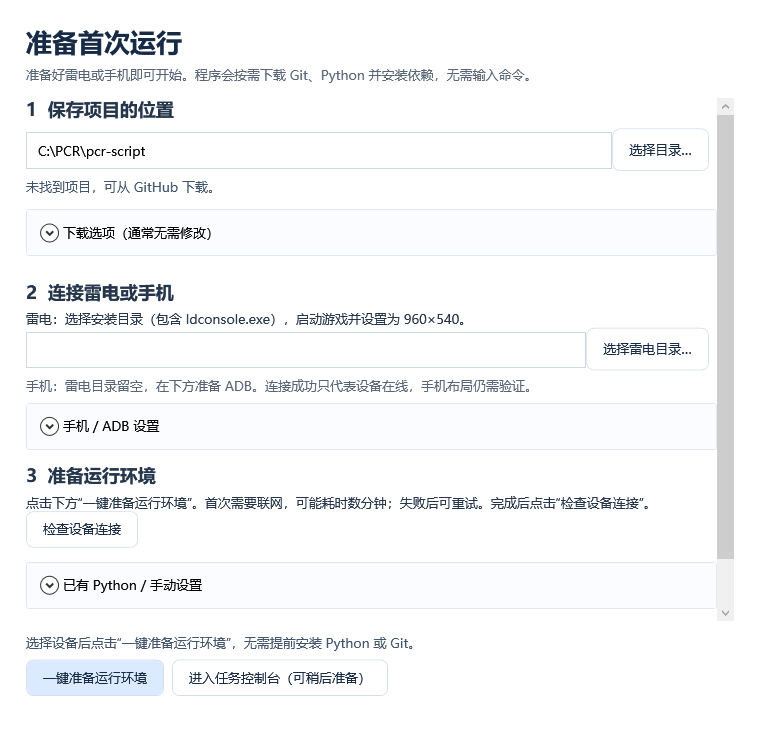
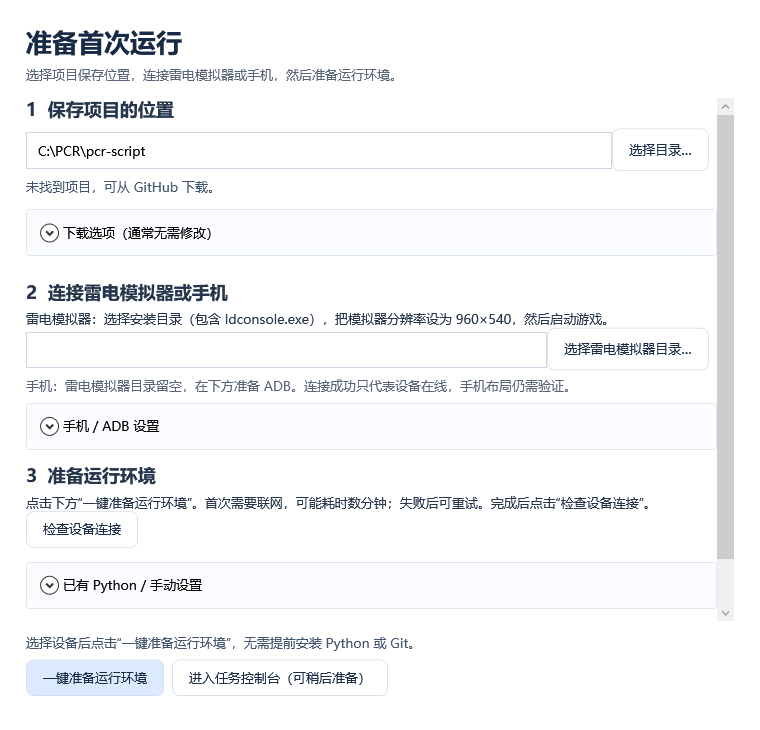
docs: use full Chinese name for LDPlayer throughout user guidance

Changed region(s): [[0.0605, 0.3918, 0.8776, 0.5123], [0.0303, 0.0904, 0.6961, 0.1205], [0.1211, 0.5123, 0.7566, 0.5425]]

diff --git a/desktop/PcrDesktop/SetupWindow.xaml b/desktop/PcrDesktop/SetupWindow.xaml
@@ -3,7 +3,7 @@
   <Grid Margin="26">
     <Grid.RowDefinitions><RowDefinition Height="Auto"/><RowDefinition Height="*"/><RowDefinition Height="Auto"/></Grid.RowDefinitions>
     <StackPanel Margin="0,0,0,14"><TextBlock Text="准备首次运行" FontSize="26" FontWeight="SemiBold" Foreground="#172B46"/>
-      <TextBlock Text="准备好雷电或手机即可开始。程序会按需下载 Git、Python 并安装依赖，无需输入命令。" TextWrapping="Wrap" Margin="0,8,0,0" Foreground="#586578"/></StackPanel>
+      <TextBlock Text="选择项目保存位置，连接雷电模拟器或手机，然后准备运行环境。" TextWrapping="Wrap" Margin="0,8,0,0" Foreground="#586578"/></StackPanel>
     <ScrollViewer x:Name="SetupFields" Grid.Row="1" VerticalScrollBarVisibility="Auto"><StackPanel>
       <TextBlock Text="1  保存项目的位置" FontSize="18" FontWeight="SemiBold"/>
       <DockPanel Margin="0,8,0,0"><Button DockPanel.Dock="Right" Content="选择目录…" Click="ProjectBrowse_Click"/><TextBox x:Name="ProjectPath" TextChanged="Project_Changed"/></DockPanel>
@@ -18,10 +18,10 @@
           <DockPanel><Button DockPanel.Dock="Right" x:Name="DownloadButton" Content="仅下载项目" Click="Download_Click"/><TextBox x:Name="Branch" ToolTip="分支"/></DockPanel>
         </StackPanel></Expander>
       </StackPanel>
-      <TextBlock Text="2  连接雷电或手机" FontSize="18" FontWeight="SemiBold" Margin="0,14,0,0"/>
-      <TextBlock Text="雷电：选择安装目录（包含 ldconsole.exe），启动游戏并设置为 960×540。" TextWrapping="Wrap" Margin="0,8,0,0"/>
-      <DockPanel><Button DockPanel.Dock="Right" Content="选择雷电目录…" Click="EmulatorBrowse_Click"/><TextBox x:Name="EmulatorPath"/></DockPanel>
-      <TextBlock Text="手机：雷电目录留空，在下方准备 ADB。连接成功只代表设备在线，手机布局仍需验证。" TextWrapping="Wrap" Foreground="#586578"/>
+      <TextBlock Text="2  连接雷电模拟器或手机" FontSize="18" FontWeight="SemiBold" Margin="0,14,0,0"/>
+      <TextBlock Text="雷电模拟器：选择安装目录（包含 ldconsole.exe），把模拟器分辨率设为 960×540，然后启动游戏。" TextWrapping="Wrap" Margin="0,8,0,0"/>
+      <DockPanel><Button DockPanel.Dock="Right" Content="选择雷电模拟器目录…" Click="EmulatorBrowse_Click"/><TextBox x:Name="EmulatorPath"/></DockPanel>
+      <TextBlock Text="手机：雷电模拟器目录留空，在下方准备 ADB。连接成功只代表设备在线，手机布局仍需验证。" TextWrapping="Wrap" Foreground="#586578"/>
       <Expander Header="手机 / ADB 设置" Margin="0,8,0,0"><StackPanel>
         <TextBlock Text="开启手机的开发者选项和 USB 调试，用数据线连接并允许此电脑调试。" TextWrapping="Wrap"/>
         <DockPanel><Button DockPanel.Dock="Right" Content="选择 adb.exe…" Click="AdbBrowse_Click"/><TextBox x:Name="AdbPath" ToolTip="已有 ADB 可填写完整路径或 adb（PATH）"/></DockPanel>

diff --git a/pcrscript/desktop.py b/pcrscript/desktop.py
@@ -125,12 +125,12 @@ def device_report(options: dict[str, Any]) -> dict[str, Any]:
     emulator = str(options.get('dnpath') or '').strip()
     if emulator:
         if not (Path(emulator) / 'ldconsole.exe').is_file():
-            raise ValueError('此目录没有 ldconsole.exe，请选择雷电安装目录，而非桌面快捷方式。')
+            raise ValueError('此目录没有 ldconsole.exe，请选择雷电模拟器安装目录，而非桌面快捷方式。')
         diagnostics = io.StringIO()
         with redirect_stdout(diagnostics):
             devices = DNSimulator(emulator, useADB=False).get_devices() or []
-        message = ('雷电连接正常，在线实例：' + '、'.join(devices) + '。请登录游戏首页，并确认分辨率为 960×540。') if devices else (
-            '未发现已启动的雷电实例，请先启动模拟器，等待 Android 桌面显示后重试。' + diagnostics.getvalue().strip())
+        message = ('雷电模拟器连接正常，在线实例：' + '、'.join(devices) + '。请登录游戏首页，并确认分辨率为 960×540。') if devices else (
+            '未发现已启动的雷电模拟器实例，请先启动模拟器，等待 Android 桌面显示后重试。' + diagnostics.getvalue().strip())
         return dict(protocol=PROTOCOL, ready=bool(devices), devices=[], message=message)
     states = GeneralSimulator(str(options.get('adb_path') or 'adb')).get_device_states()
     devices = [serial for serial, state in states.items() if state == 'device']
@@ -379,7 +379,7 @@ def execute(path: Path, request: dict[str, Any], run_id: str) -> None:
             dnpath = str(config['Extra'].get('dnpath') or '').strip()
             if dnpath:
                 if open_leidian_emulator(dnpath) != 0:
-                    raise RuntimeError('雷电启动失败')
+                    raise RuntimeError('雷电模拟器启动失败')
             else:
                 import subprocess
                 from pcrscript.run_session import clock

diff --git a/pcrscript/runtime.py b/pcrscript/runtime.py
@@ -32,7 +32,7 @@ def select_driver(config: dict[str, Any]) -> Driver:
     if dnpath:
         drivers = DNSimulator(dnpath, useADB=False).get_dirvers() or []
         if not drivers:
-            raise RuntimeError("未发现雷电窗口，请在与模拟器相同的 Windows 会话运行")
+            raise RuntimeError("未发现雷电模拟器窗口，请在与模拟器相同的 Windows 会话运行")
         return drivers[0]
     adb_path = str(extra.get("adb_path") or "adb").strip()
     unicode_console_path = str(extra.get("adb_unicode_console_path") or "").strip()
@@ -117,13 +117,13 @@ def open_leidian_emulator(dnpath: str) -> int:
             last_error = error
             detail = (f'退出码 0x{error.returncode & 0xffffffff:08X}'
                       if isinstance(error, subprocess.CalledProcessError) else '查询超过 15 秒')
-            print(f'雷电设备查询 list2 失败（{detail}），启动检查 {attempt + 1}/10', flush=True)
+            print(f'雷电模拟器设备查询 list2 失败（{detail}），启动检查 {attempt + 1}/10', flush=True)
         if attempt < 9:
             print("no emulator detected, wait for 20 seconds")
             time.sleep(20)
     else:
         if last_error is not None:
-            raise RuntimeError(f'雷电启动检查已达 10 次上限，最后一次设备查询失败（{detail}）') from last_error
+            raise RuntimeError(f'雷电模拟器启动检查已达 10 次上限，最后一次设备查询失败（{detail}）') from last_error
         print("exit cannot found device")
         return -1
     print("try start princess connect application")

diff --git a/desktop/PcrDesktop/MainWindow.Options.cs b/desktop/PcrDesktop/MainWindow.Options.cs
@@ -22,7 +22,7 @@ public partial class MainWindow
         ["max_characters"] = "本轮最多检查角色数", ["max_pages"] = "角色列表最大翻页数", ["max_story_steps_per_character"] = "单角色剧情步骤上限", ["max_gifts_per_character"] = "单角色礼物消耗上限",
         ["aliases"] = "搜索别名", ["region"] = "目标服区", ["max_videos"] = "候选视频数量", ["max_age_hours"] = "缓存有效小时数",
         ["request_timeout"] = "网络请求超时（秒）", ["cache_dir"] = "来源缓存目录", ["Extra"] = "运行环境", ["StoryEvent"] = "剧情活动", ["RevivalEvent"] = "复刻活动",
-        ["Gift"] = "礼物领取", ["Caravan"] = "驾车游", ["dnpath"] = "雷电安装目录", ["adb_path"] = "ADB 程序", ["adb_serial"] = "ADB 设备序列号（多个设备时填写）",
+        ["Gift"] = "礼物领取", ["Caravan"] = "驾车游", ["dnpath"] = "雷电模拟器安装目录", ["adb_path"] = "ADB 程序", ["adb_serial"] = "ADB 设备序列号（多个设备时填写）",
         ["teams"] = "队伍方案文件", ["first_clear"] = "推进首次通关（待实机验证）", ["bosses"] = "挑战首领",
         ["stories"] = "处理剧情", ["memoirs"] = "处理追忆", ["missions"] = "领取任务奖励", ["exchange"] = "兑换奖励",
         ["max_boss_attempts"] = "首领最大尝试次数", ["battle_timeout"] = "战斗超时（秒）", ["timeout"] = "任务超时（秒）",

diff --git a/pcrscript/driver.py b/pcrscript/driver.py
@@ -235,13 +235,13 @@ class DNDriver(Win32Driver):
         self._init_window_info()
 
     def _cmd(self, cmd, ret=False):
-        # 雷电窗口模式不得在截图/点击失败后偷偷切换到 ADB。
+        # 雷电模拟器窗口模式不得在截图/点击失败后偷偷切换到 ADB。
         self._assert_adb_allowed()
         return super()._cmd(cmd, ret)
 
     def _assert_adb_allowed(self):
         if self.click_by_mouse:
-            raise RuntimeError("雷电窗口操作失败（已禁用 ADB 回退），请检查模拟器窗口是否存在")
+            raise RuntimeError("雷电模拟器窗口操作失败（已禁用 ADB 回退），请检查模拟器窗口是否存在")
     
 
     def _init_window_info(self):

diff --git a/desktop/PcrDesktop/MainWindow.xaml.cs b/desktop/PcrDesktop/MainWindow.xaml.cs
@@ -66,7 +66,7 @@ public partial class MainWindow : Window
     private void Message(string text) => MessageText.Text = text;
     private static string DeviceLabel(Settings settings) => string.IsNullOrWhiteSpace(settings.EmulatorDirectory)
         ? "设备连接：ADB" + (string.IsNullOrWhiteSpace(settings.AdbSerial) ? "（自动选择唯一设备）" : " · " + settings.AdbSerial)
-        : "雷电目录：" + settings.EmulatorDirectory;
+        : "雷电模拟器目录：" + settings.EmulatorDirectory;
     private void Log(string text) => Dispatcher.Invoke(() =>
     {
         // Bound UI memory while the complete log remains in the run directory.

diff --git a/desktop/PcrDesktop/MainWindow.Profiles.cs b/desktop/PcrDesktop/MainWindow.Profiles.cs
@@ -114,7 +114,7 @@ public partial class MainWindow
         ResetDailyEditor();
         MarkConfigSaved();
         ConfigPicker.SelectedIndex = -1;
-        Message("运行选项已就绪；设置雷电目录或连接 ADB 设备后可运行单任务，整组方案可另行保存");
+        Message("运行选项已就绪；设置雷电模拟器目录或连接 ADB 设备后可运行单任务，整组方案可另行保存");
     }
 
     private async void Setup_Click(object sender, RoutedEventArgs e) => await Guard(async () =>

diff --git a/desktop/PcrDesktop/SetupWindow.xaml.cs b/desktop/PcrDesktop/SetupWindow.xaml.cs
@@ -86,7 +86,7 @@ public partial class SetupWindow : Window
 
     private void EmulatorBrowse_Click(object sender, RoutedEventArgs e)
     {
-        var dialog = new OpenFolderDialog { Title = "选择包含 ldconsole.exe 的雷电安装目录" };
+        var dialog = new OpenFolderDialog { Title = "选择包含 ldconsole.exe 的雷电模拟器安装目录" };
         if (dialog.ShowDialog(this) == true) EmulatorPath.Text = dialog.FolderName;
     }
 

diff --git a/docs/game-knowledge/navigation.md b/docs/game-knowledge/navigation.md
@@ -1,6 +1,6 @@
 # 界面地图
 
-适用：国服雷电 960×540；2026-09 实测。入口名称、活动布局可能变动。
+适用：国服雷电模拟器 960×540；2026-09 实测。入口名称、活动布局可能变动。
 
 | 起点 | 路径 | 识别要点 |
 |---|---|---|
@@ -17,10 +17,10 @@
 
 易混淆：冒险菜单的“主线关卡”卡片与主线地图标题同名。弹窗、教程、剧情和数据连接遮罩可覆盖当前页面；待覆盖层消失后判断所在页。
 
-**国服实测（2026-09-27，雷电 960×540）**：启动游戏时可能先显示无文字的加载画面，再出现带「点击屏幕 开始游戏」的标题页。标题页左下角「主菜单」与游戏首页底部导航不同；点击画面空白处可继续登录，登录奖励与公告结束后才进入首页。
+**国服实测（2026-09-27，雷电模拟器 960×540）**：启动游戏时可能先显示无文字的加载画面，再出现带「点击屏幕 开始游戏」的标题页。标题页左下角「主菜单」与游戏首页底部导航不同；点击画面空白处可继续登录，登录奖励与公告结束后才进入首页。
 
-**国服实测（2026-09-25，雷电 960×540）**：当日首次启动游戏后曾出现登录奖励看板，画面有「欢迎回来」和「Goal!」，右上角是跳过图标。点跳过后可继续进入首页及冒险菜单；此页不属于深域地图。
+**国服实测（2026-09-25，雷电模拟器 960×540）**：当日首次启动游戏后曾出现登录奖励看板，画面有「欢迎回来」和「Goal!」，右上角是跳过图标。点跳过后可继续进入首页及冒险菜单；此页不属于深域地图。
 
-**国服实测（2026-09-26，雷电 960×540）**：进入游戏时还会看到「应援印章」登录看板，右上角有双箭头跳过图标。看板可能遮住首页入口；应确认看板标题及跳过图标后再跳过。
+**国服实测（2026-09-26，雷电模拟器 960×540）**：进入游戏时还会看到「应援印章」登录看板，右上角有双箭头跳过图标。看板可能遮住首页入口；应确认看板标题及跳过图标后再跳过。
 
-**国服实测（2026-09-24，雷电 960×540）**：主线关卡快捷扫荡选中剩余挑战次数为 0 的关卡时，会弹出「一键回复挑战次数」。点「不回复，进行下一步」可跳过宝石回复，随后进入扫荡确认；若使用券张数超过部分关卡剩余挑战次数，最终确认页提示无法扫荡。调低使用券张数后，可正常显示扫荡结果。
+**国服实测（2026-09-24，雷电模拟器 960×540）**：主线关卡快捷扫荡选中剩余挑战次数为 0 的关卡时，会弹出「一键回复挑战次数」。点「不回复，进行下一步」可跳过宝石回复，随后进入扫荡确认；若使用券张数超过部分关卡剩余挑战次数，最终确认页提示无法扫荡。调低使用券张数后，可正常显示扫荡结果。

diff --git a/docs/pending-validation.md b/docs/pending-validation.md
@@ -7,7 +7,7 @@
 | GUI 首次安装与引导 | 在未装 Git/Python/ADB、无工具和 pip 缓存的干净 Windows，从新 Release ZIP 完成核心下载、便携工具下载、虚拟环境与依赖准备；验证网络中断/重试、权限/磁盘失败、手机授权及多设备选择。核对新工程默认日常、配置保存和实际运行结果。隔离目录安装验证不替代干净系统验收。见[发布](releases.md)。 |
 | GUI 运行控制与进度 | 真实日常及单项 OCR 任务中验证暂停确认、恢复、停止、锁释放、结束后耗时固定；任务切换清除旧阶段，未知总数显示活动条，“保存现场”能定位回执。见[运行诊断](run-diagnostics.md)。 |
 | Windows 状态文件更新 | 自然发生 `status.json` 替换冲突（WinError 5/32）时，有限重试后状态与控制回执仍正确；定位实际占用来源。 |
-| 雷电冷启动 | `list2` 自然异常退出或超时时，原有启动循环能恢复或在上限内停止；首次登录的应援印章等看板组合应能进入首页并继续日常。 |
+| 雷电模拟器冷启动 | `list2` 自然异常退出或超时时，原有启动循环能恢复或在上限内停止；首次登录的应援印章等看板组合应能进入首页并继续日常。 |
 | ADB 与其他布局 | 纯 ADB 中文输入、无控制台时的完整五人头像扫描及非 960×540 布局。设备配置见[设备设置](guides/desktop.md)。 |
 | 深域体力不足 | 由生产任务自然触发公会之家领取，核对取消回复、体力回执、余额增加及原关详情重读；无产物和其他弹窗也应有界停止。 |
 | 来源解析与完整配队 | 空缓存搜索、头像准备、不同视频布局、培养/服区/SET/AUTO/全局条件的完整核验及拒识；核验短暂战斗字幕是否会落在整帧复核间隔外；活动/复刻旧头像索引的自动补全。见[解析边界](video-strategies.md)。 |

diff --git a/README.md b/README.md
@@ -11,8 +11,8 @@
 
 需要 Windows 电脑，以及雷电模拟器或 Android 手机。图形界面要求 Windows 10（1903 或更新版本）/ Windows 11。
 
-- **雷电：** 把分辨率设为 **960×540**，启动游戏并登录到首页。
-- **手机：** 开启“开发者选项”和“USB 调试”，用数据线连接电脑，在手机上允许调试。目前只在雷电上测试过，手机上可能出现识别或点击不准的情况。
+- **雷电模拟器：** 把分辨率设为 **960×540**，启动游戏并登录到首页。
+- **手机：** 开启“开发者选项”和“USB 调试”，用数据线连接电脑，在手机上允许调试。目前只在雷电模拟器上测试过，手机上可能出现识别或点击不准的情况。
 
 日程表和竞技场会使用你在游戏里保存的安排和队伍。快捷扫荡默认用预设 2；只有困难关卡掉落加倍时可能改用预设 3，运行前请检查这两个预设的内容。扫荡、调查和商店购买会消耗体力或对应货币，不需要的任务可以从执行列表中去掉。具体说明见 [任务列表](docs/guides/tasks.md)。
 
@@ -31,7 +31,7 @@ notepad daily_config.yml
 
 在打开的配置文件里：
 
-- 使用雷电时，把 `Extra` 下的 `dnpath` 改成自己的雷电安装目录，例如 `'D:/leidian/LDPlayer9'`。
+- 使用雷电模拟器时，把 `Extra` 下的 `dnpath` 改成模拟器的安装目录，例如 `'D:/leidian/LDPlayer9'`。
 - 使用手机时，`dnpath` 留空，`adb_path` 填入 `adb.exe` 的位置；ADB 的安装和多设备设置见 [命令行指南](docs/guides/command-line.md#2-配置设备和任务)。
 - `Task` 下是要执行的任务。检查列表，删去不需要的项目，保存文件。
 
